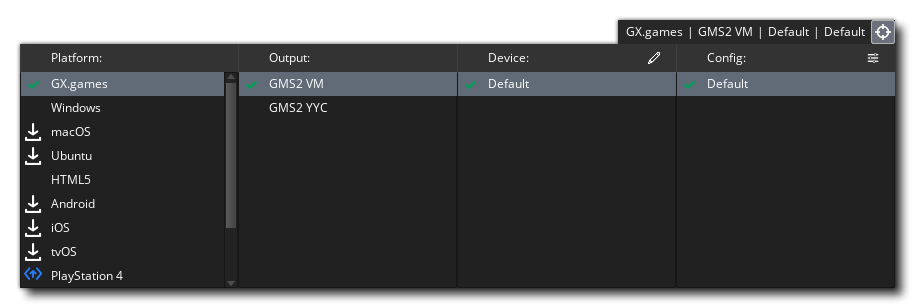
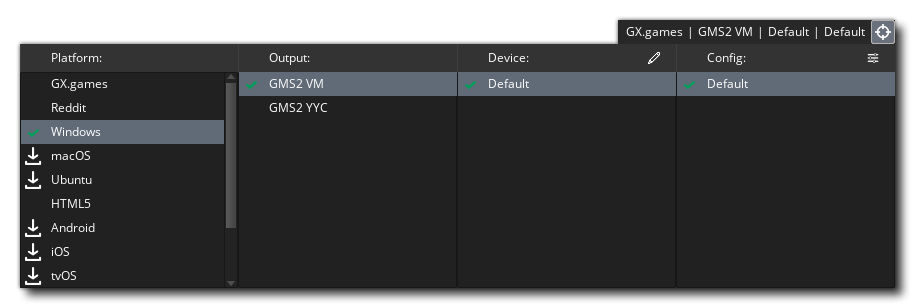
docs(feature): document the reddit export

diff --git a/Manual/contents/Introduction/Compiling.htm b/Manual/contents/Introduction/Compiling.htm
@@ -120,6 +120,7 @@
       <br />
       &quot;Package as Zip&quot; will build either an <span class="inline">*.app</span> file or a <span class="inline">*.pkg</span> file, depending on whether you want to later upload it to the Mac App Store or not. As with iOS <strong>you will require an Apple Mac computer running OSX or higher as well as the relevant certificates and permissions</strong>. You can find out more from the <a href="https://github.com/YoYoGames/GameMaker-Bugs/wiki/MacOS-GMS2">GameMaker Wiki</a>.
     </li>
+    <li><strong>Reddit </strong>- For a compilation guide, see the <a href="https://github.com/YoYoGames/GameMaker-Bugs/wiki/">GameMaker Wiki</a>.</li>
   </ul>
   <h3 id="distributing_your_game">Distributing your Game</h3>
   <p>Once you have created your executable asset package you can then give the file to other people or place it on your website to download, or upload these files to the different hosting services for individual distribution or even to online stores (like Google Play, Apple App Store or the Microsoft Store) for general distribution and retail.</p>
@@ -133,7 +134,7 @@
         <div style="float:right">Next: <a href="Debugging.htm">Debugging</a></div>
       </div>
     </div>
-    <h5><span data-keyref="Copyright Notice">© Copyright YoYo Games Ltd. 2025 All Rights Reserved</span></h5>
+    <h5><span data-keyref="Copyright Notice">© Copyright YoYo Games Ltd. 2026 All Rights Reserved</span></h5>
   </div>
   <!-- KEYWORDS
 Compiling
